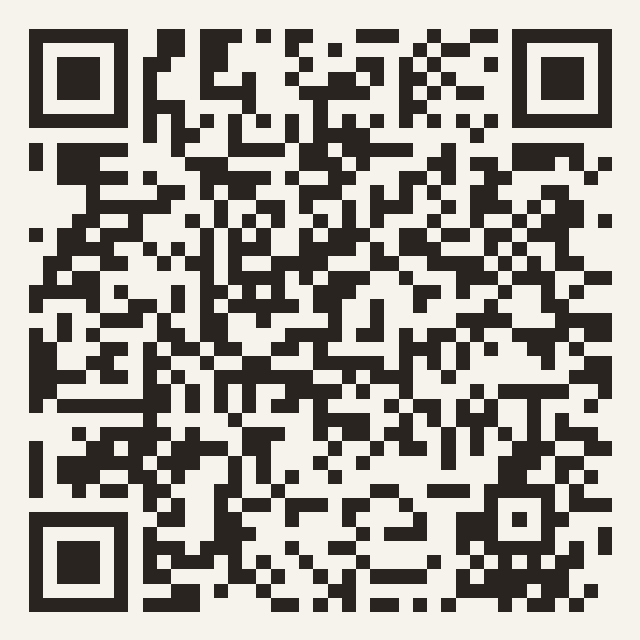
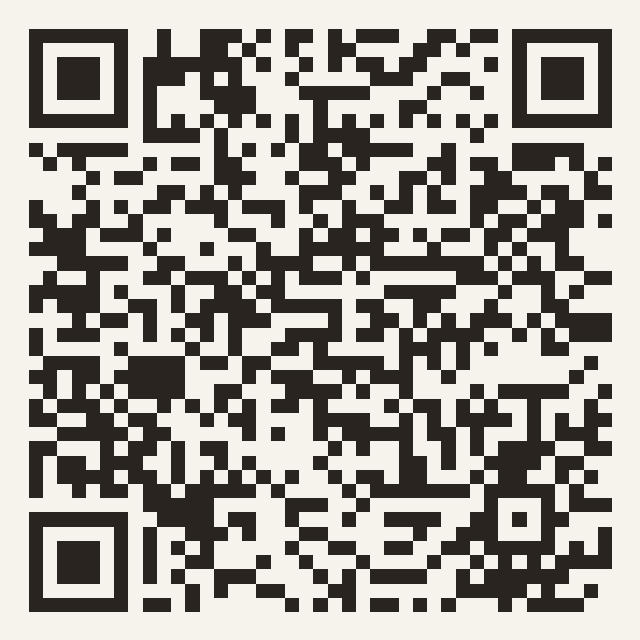
README: 183 problems, new build, and honest limitations
- APK, install page and QR point at build 959beecc (QR verified by decode)
- problem count 139 -> 183; companies list adds Accenture and Cognizant
- documents verify:problems and why every problem is on LeetCode: their
  GraphQL endpoint answers authoritatively, while geeksforgeeks.org returns
  HTTP 200 for a made-up slug and so cannot be verified at all
- drops two limitations that are now fixed (Amazon over-tagging, stub
  languages) and adds two that are real: video coverage is 42/183, and
  company tags are editorial rather than sourced

diff --git a/README.md b/README.md
@@ -2,7 +2,7 @@
 
 An offline-first DSA learning and tracking app for Android and iOS. Not just a
 tracker — it ships an authored roadmap, full-depth topic modules, primers for five languages,
-and 139 company-tagged interview problems, with the progress system built around
+and 183 company-tagged interview problems, with the progress system built around
 them.
 
 Built with Expo + React Native + TypeScript, backed by Supabase.
@@ -19,9 +19,9 @@ Built with Expo + React Native + TypeScript, backed by Supabase.
 </td>
 <td>
 
-**[⬇ Download the APK directly](https://expo.dev/artifacts/eas/EnSZILV4fPNDpwdUIPWEap0kNWZfgrcrLNS15N5USZI.apk)**
+**[⬇ Download the APK directly](https://expo.dev/artifacts/eas/B1NFZaG1Kx_QuyB6FFHwYaOoC-yu6F3BMxs5VqsdgyM.apk)**
 
-or open the **[install page](https://expo.dev/accounts/imsky1812/projects/dsa-mastery/builds/896e07ac-20e2-4a56-aa50-3a652421adb5)**
+or open the **[install page](https://expo.dev/accounts/imsky1812/projects/dsa-mastery/builds/959beecc-bffb-4b69-82dc-97d069f6cb42)**
 on your phone.
 
 1. Tap the APK to download it.
@@ -59,7 +59,7 @@ a problem ladder tiered *warmup → core → interview → hard*. Each of five l
 C++, Java, Python, C and Go — gets a ten-section primer and its own snippets
 per topic, switchable from Profile.
 
-**Practise deliberately.** All 139 problems in one list, filterable by status,
+**Practise deliberately.** All 183 problems in one list, filterable by status,
 difficulty, platform, company, and topic. Every link was verified — no
 fabricated URLs. Tap a problem to open it on LeetCode or GFG; tap its circle to
 cycle *unsolved → solved → revisit*; keep a note per problem for the approach,
@@ -80,9 +80,9 @@ the entire app keeps working with no signal — see [Offline-first](#offline-fir
 
 | | |
 |---|---|
-| **Content** | 8-phase roadmap · 19 topic modules · 139 verified problems · 124 code samples |
+| **Content** | 8-phase roadmap · 19 topic modules · 183 verified problems · 124 code samples |
 | **Languages** | C++, Java, Python, C, Go — a 10-section primer each, snippets per topic |
-| **Companies** | Amazon, Google, Microsoft, Meta, Adobe, Uber, LinkedIn, Flipkart, TCS, Infosys, Wipro |
+| **Companies** | Amazon, Google, Microsoft, Meta, Adobe, Uber, LinkedIn, Flipkart · TCS, Infosys, Wipro, Accenture, Cognizant |
 | **Tracking** | contribution heatmap · streaks · per-problem notes · revisit flags · topic completion |
 | **Filtering** | status · difficulty · platform · company · topic |
 | **Accounts** | email/password sign-up, sign-in, password reset — or use it with no account at all |
@@ -180,8 +180,19 @@ npm run content:check   # CI-style check that they're current
 ```
 
 The generator validates each problem URL's shape and rejects a problem name
-pointing at two different URLs. It **cannot** confirm a link resolves, so any
-newly added problem still needs a manual check before it lands.
+pointing at two different URLs. Links themselves are checked against the
+platform:
+
+```bash
+npm run verify:problems   # every link + difficulty, against LeetCode's API
+npm run problems          # add new ones (--check to verify, --apply to write)
+```
+
+Every problem is on LeetCode, deliberately. LeetCode's GraphQL endpoint answers
+authoritatively — a bad slug returns null, and a good one returns the official
+difficulty, so a mislabelled difficulty is caught too. GFG problems were removed
+because they cannot be verified at all: geeksforgeeks.org returns HTTP 200 for a
+made-up slug, so a status check proves nothing.
 
 The data model is multi-language from day one — code is keyed by language — so
 adding Java/Python/JS means adding snippets and a primer, never duplicating
@@ -202,7 +213,7 @@ the app builds a YouTube **search** from the problem name and its topic:
 https://www.youtube.com/results?search_query=Two%20Sum%20arrays%20dsa%20explained%20solution
 ```
 
-This is deliberate. Hardcoding 139 specific video ids would mean inventing them,
+This is deliberate. Hardcoding a video id per problem would mean inventing them,
 which is exactly the fabricated URL this repo forbids, and a dead video is worse
 than no video. A search always resolves, needs no maintenance, and improves on
 its own as better explanations get published.
@@ -351,7 +362,7 @@ polish, and a shipping Android build.
 
 | | |
 |---|---|
-| M0 Content | 19 topics, 139 verified problems, C++ primer |
+| M0 Content | 19 topics, 183 verified problems, primers for 5 languages |
 | M1 App | five screens, offline-first, heatmap + streaks |
 | M2 Supabase | schema + seed deployed and verified |
 | M3 Auth | email/password, route gate, local-only mode |
@@ -364,10 +375,12 @@ polish, and a shipping Android build.
 
 - **iOS is unbuilt.** The code is cross-platform; it needs an Apple Developer
   account to produce an installable build.
-- **Java / Python / JS are stubs.** The data model supports them; the content
-  isn't authored yet, so they show as *soon* in the language picker.
-- **Amazon is tagged on 137 of 139 problems**, which makes that particular
-  company filter close to a no-op. A content-tagging call, not a bug.
 - **`SCHEDULE_EXACT_ALARM`** is requested in `app.json`. Google Play restricts
   it and will ask for justification; the daily reminder doesn't need exact
   timing, so drop it before any Play submission. Harmless for a sideloaded APK.
+- **Explanation videos cover 42 of 183 problems.** The rest fall back to a
+  YouTube search, which always works — see [Explanation videos](#explanation-videos)
+  for why the gap is deliberate rather than unfinished.
+- **Company tags are editorial, not sourced.** They follow tier rules (warmups
+  carry no big-tech tags; Amazon only on interview/hard) enforced by the build,
+  which keeps them honest — but they are judgment, not interview data.
